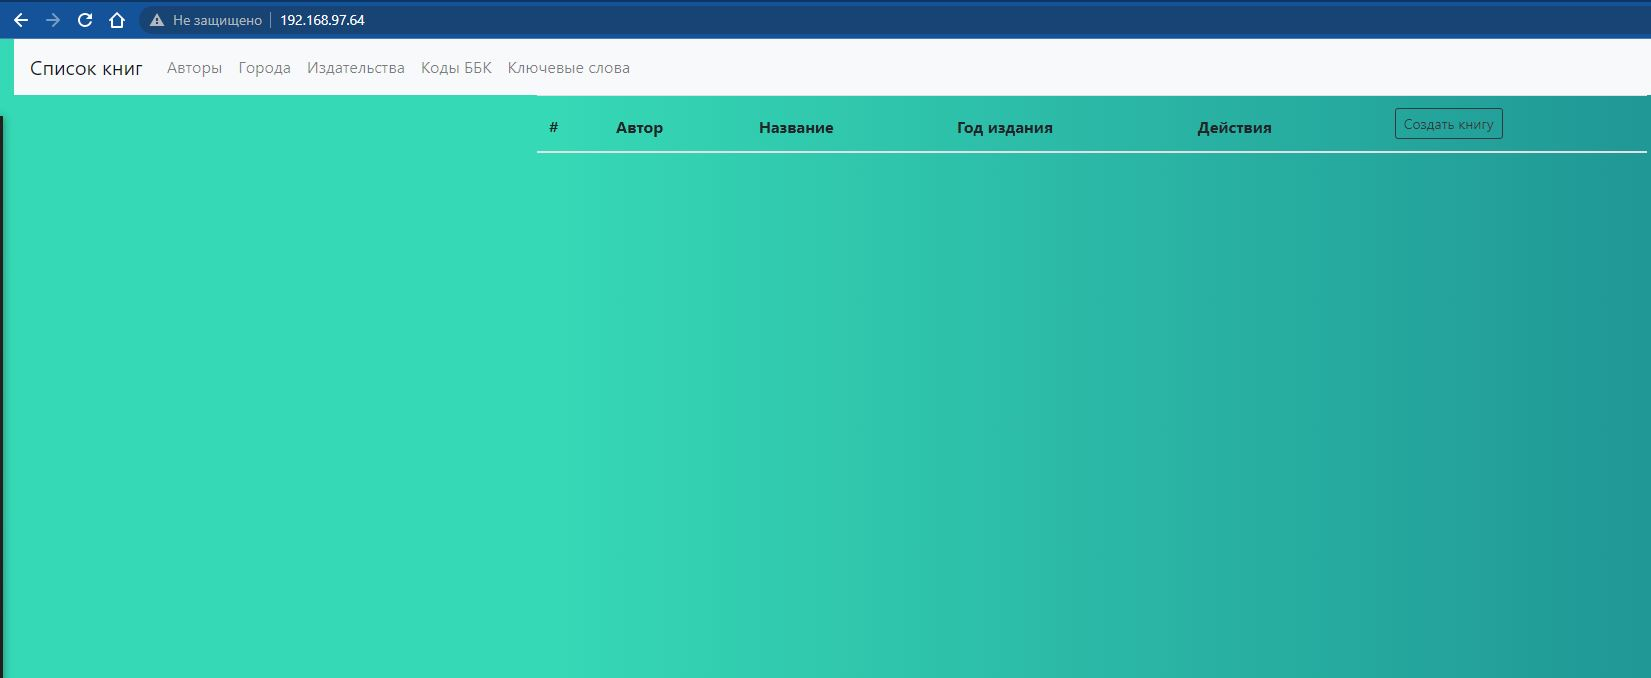
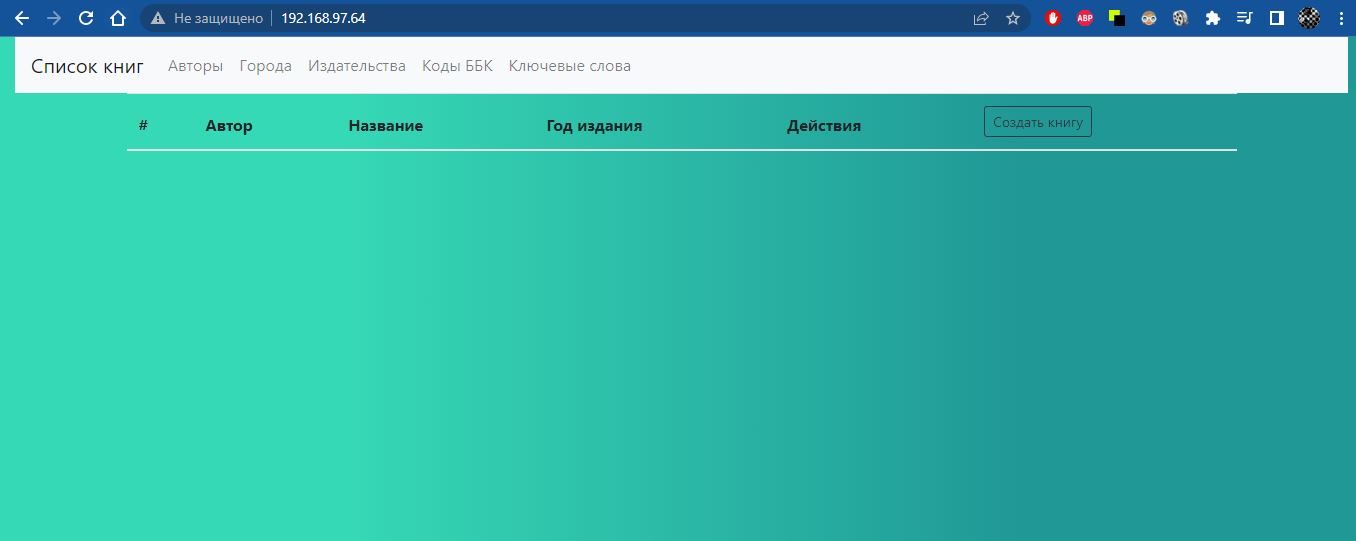
upd

Changed region(s): [[0.0, 0.0, 1.0, 1.0], [0.0929, 0.207, 0.1239, 0.2366]]

diff --git a/task-01/README.md b/task-01/README.md
@@ -3,7 +3,7 @@
 docker build -t front .
 ```
 ![task 01 01.img](/task-01/img/01.JPG)
-![task 01 01.img](/task-01/img/01.JPG)
+![task 01 02.img](/task-01/img/02.JPG)
 
 ```
 docker run -d -p 80:80 front
